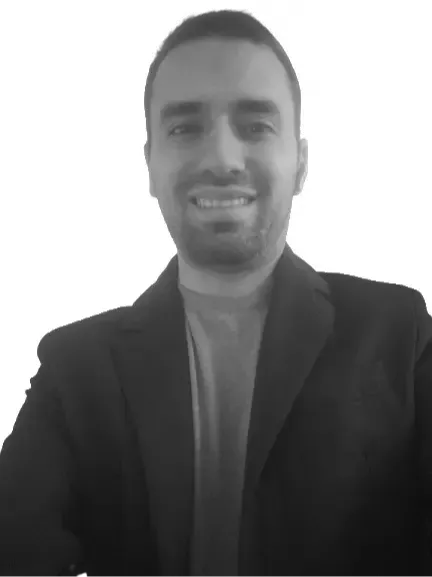
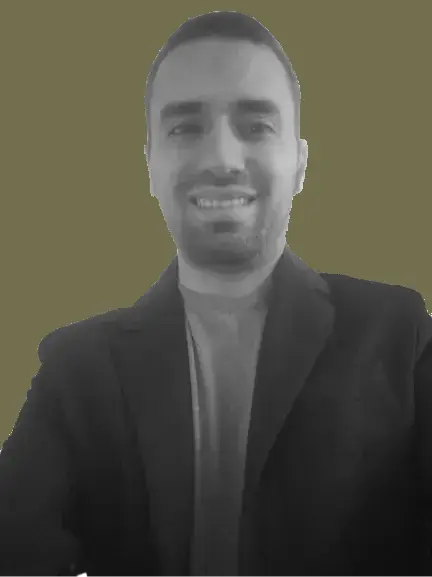
Se agregaron estilos  las imagenes para hacerlas del mismo tamaño

diff --git a/nosotros.html b/nosotros.html
@@ -84,7 +84,7 @@
       <div class="carousel-inner">
         <div class="carousel-item active">
           <div class="card h-100">
-            <img src="./imagen/HIGR.webp" class="card-img-top w-50 bg-dart mx-auto" alt="HIGR">
+            <img src="./imagen/HIGR.webp" class="card-img-top w-50 bg-dart mx-auto imagen-carrusel" alt="HIGR">
             <div class="card-body">
               <h5 class="card-title">Harold Iván Gutiérrez Romero</h5>
               <h6 class="card-subtitle mb-2 text-body-secondary">Desarrollador Fullstack</h6>
@@ -97,7 +97,7 @@
         </div>
         <div class="carousel-item ">
           <div class="card h-100">
-            <img src="./imagen/CGZ.webp" class="card-img-top w-50 mx-auto" alt="CGZ">
+            <img src="./imagen/CGZ.webp" class="card-img-top w-50 mx-auto imagen-carrusel" alt="CGZ">
             <div class="card-body">
               <h5 class="card-title">Carolina González Zavala</h5>
               <h6 class="card-subtitle mb-2 text-body-secondary">Desarrolladora Fullstack</h6>
@@ -114,7 +114,7 @@
         </div>
         <div class="carousel-item ">
           <div class="card h-100">
-            <img src="./imagen/DSAR.webp"  class="card-img-top w-50 mx-auto" alt="DSAR">
+            <img src="./imagen/DSAR.webp"  class="card-img-top w-50 mx-auto imagen-carrusel" alt="DSAR">
             <div class="card-body">
               <h5 class="card-title">Daniel Sebastian Álvarez Rodríguez</h5>
               <h6 class="card-subtitle mb-2 text-body-secondary">Desarrollador Fullstack</h6>
@@ -130,7 +130,7 @@
         </div>
         <div class="carousel-item">
           <div class="card h-100">
-            <img src="./imagen/LIMV.webp" class="card-img-top w-50 mx-auto" alt="LIMV">
+            <img src="./imagen/LIMV.webp" class="card-img-top w-50 mx-auto imagen-carrusel" alt="LIMV">
             <div class="card-body">
               <h5 class="card-title">Luis Isaac Méndez Villegas</h5>
               <h6 class="card-subtitle mb-2 text-body-secondary">Desarrollador Fullstack</h6>
@@ -144,7 +144,7 @@
         </div>
         <div class="carousel-item ">
           <div class="card h-100">
-            <img src="./imagen/NP.webp" class="card-img-top w-50 mx-auto" alt="Nei">
+            <img src="./imagen/NP.webp" class="card-img-top w-50 mx-auto imagen-carrusel" alt="Nei">
             <div class="card-body">
               <h5 class="card-title">Neira Plascencia</h5>
               <h6 class="card-subtitle mb-2 text-body-secondary">Desarrolladora Fullstack</h6>
@@ -160,7 +160,7 @@
         </div>
         <div class="carousel-item">
           <div class="card h-100">
-            <img src="./imagen/DP.webp" class="card-img-top w-50 mx-auto" alt="DP">
+            <img src="./imagen/DP.webp" class="card-img-top w-50 mx-auto imagen-carrusel" alt="DP">
             <div class="card-body">
               <h5 class="card-title">Daniela Pereyra</h5>
               <h6 class="card-subtitle mb-2 text-body-secondary">Desarrolladora Fullstack</h6>
@@ -174,7 +174,7 @@
         </div>
         <div class="carousel-item">
           <div class="card h-100">
-            <img src="./imagen/imagen-EG.webp" class="card-img-top w-50 mx-auto" alt="EG">
+            <img src="./imagen/imagen-EG.webp" class="card-img-top w-50 mx-auto imagen-carrusel" alt="EG">
             <div class="card-body">
               <h5 class="card-title">Erick Gonzalez</h5>
               <h6 class="card-subtitle mb-2 text-body-secondary">Desarrollador Fullstack</h6>

diff --git a/css/estilos.css b/css/estilos.css
@@ -119,3 +119,8 @@ footer h5 {
   font-weight: normal;
   cursor: pointer;
 }
+
+.imagen-carrusel {
+  height: 500px;
+  width: 370px;
+}
